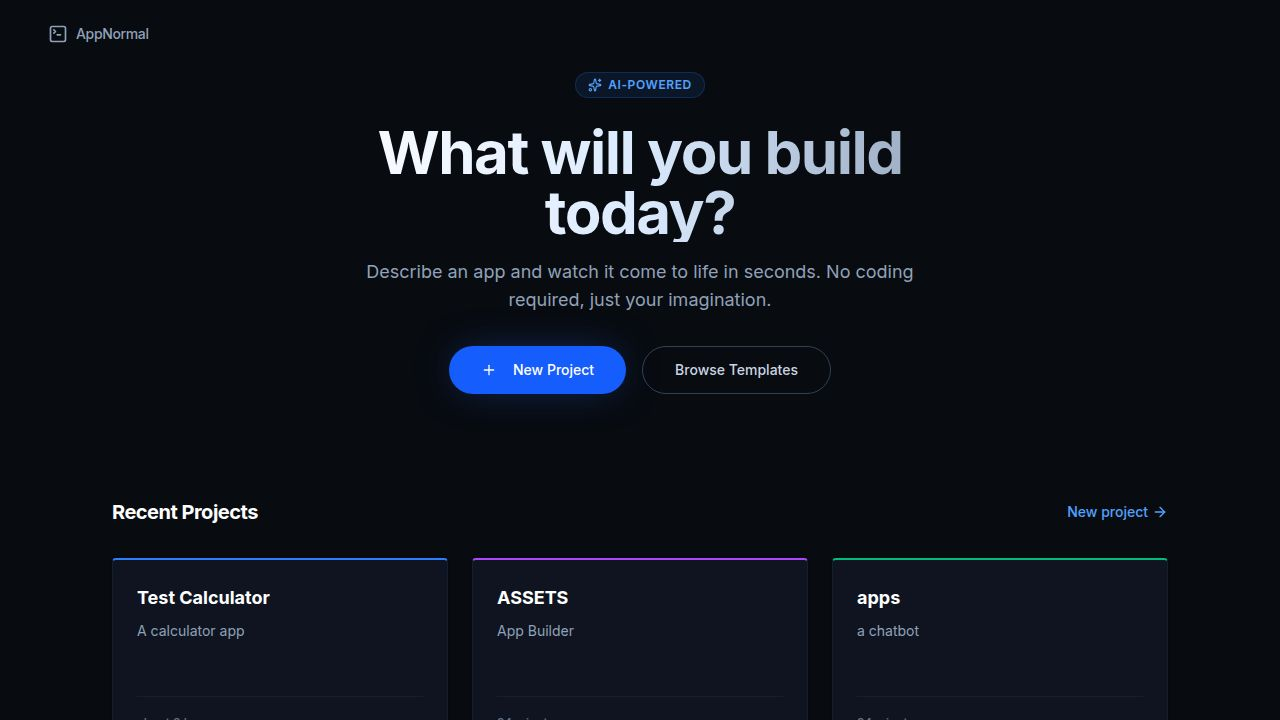
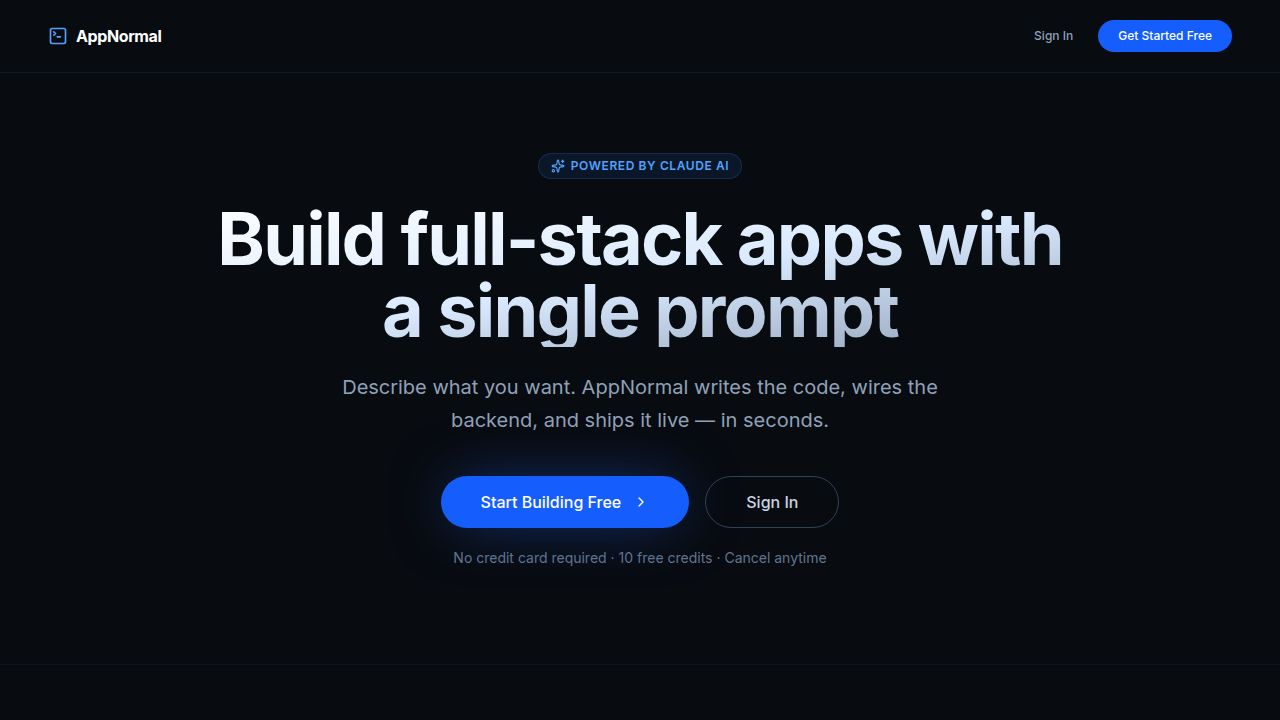
Update landing page copy to remove performance guarantees
Modify text in home.tsx and landing.tsx to remove promises of speed and single-prompt functionality.

Replit-Commit-Author: Agent
Replit-Commit-Session-Id: 58393473-15b7-406a-894f-e4a2f9e7515a
Replit-Commit-Checkpoint-Type: full_checkpoint
Replit-Commit-Event-Id: 2366a39d-a76f-4af5-b45f-1f391c9d965d
Replit-Commit-Screenshot-Url: https://storage.googleapis.com/screenshot-production-us-central1/05233888-8840-4fbe-b73e-5cd090dbfba3/58393473-15b7-406a-894f-e4a2f9e7515a/dwuXYF5
Replit-Helium-Checkpoint-Created: true

diff --git a/artifacts/lovable-clone/src/pages/landing.tsx b/artifacts/lovable-clone/src/pages/landing.tsx
@@ -77,7 +77,7 @@ const FEATURES = [
   {
     icon: <Globe className="w-5 h-5" />,
     title: "Publish Instantly",
-    desc: "One-click deployment to a public URL. Share your app with the world in seconds.",
+    desc: "One-click deployment to a public URL. Share your app with anyone, anywhere.",
   },
   {
     icon: <Github className="w-5 h-5" />,
@@ -207,11 +207,11 @@ export default function Landing() {
         </div>
 
         <h1 className="text-5xl sm:text-6xl lg:text-7xl font-extrabold tracking-tight mb-6 max-w-4xl text-transparent bg-clip-text bg-gradient-to-br from-white via-blue-100 to-slate-400">
-          Build full-stack apps with a single prompt
+          Build full-stack apps with AI
         </h1>
 
         <p className="text-xl text-slate-400 mb-10 max-w-2xl leading-relaxed">
-          Describe what you want. AppNormal writes the code, wires the backend, and ships it live — in seconds.
+          Describe what you want to build. AppNormal writes the code, wires the backend, and helps you ship it live.
         </p>
 
         <div className="flex flex-col sm:flex-row items-center gap-4">

diff --git a/artifacts/lovable-clone/src/pages/home.tsx b/artifacts/lovable-clone/src/pages/home.tsx
@@ -105,7 +105,7 @@ export default function Home() {
           </h1>
 
           <p className="text-lg text-slate-400 mb-8 max-w-xl">
-            Describe an app and watch it come to life in seconds. No coding required, just your imagination.
+            Describe what you want to build. AppNormal writes the code and wires it together. No coding required.
           </p>
 
           <div className="flex flex-col sm:flex-row items-center gap-4 w-full sm:w-auto">